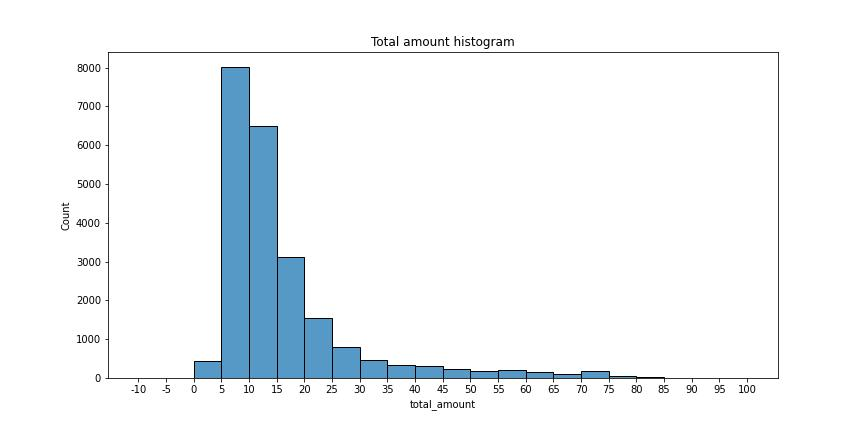
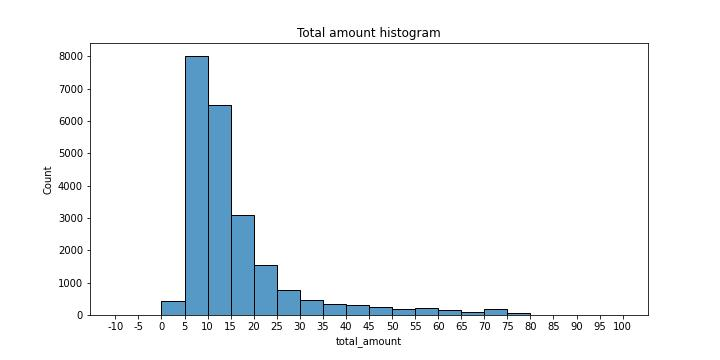
Standardized fig dimensions

diff --git a/README.md b/README.md
@@ -1,49 +1,60 @@
-![taxistand](taxi_stand.jpg)
+![taxistand](figs\taxi_stand.jpg)
 #  Yellow Taxi Trip Prediction Model
- This project goal is to build a regression model that predicts taxi cab fares before each ride based on distance, time of day, and any additional variables we find necessary.
-
+This project's goal is to build a regression model that predicts taxi cab fares before each ride based on distance, time of day, and any additional variables we find necessary.
+</br></br>
 
 # Table of Contents
 
-1. [TLC Exploration](#1-|-Exploring-the-Dataset)
-1. [TLC Statistics](#2-|-statistical-analysis)
-1. [TLC Model](#3-|-Building-the-Model)
-1. [TLC Results](#4-|-conclusions)
+1. [Exploring the Dataset](#1-|-Exploring-the-Dataset)
+1. [Statistical Analysis](#2-|-statistical-analysis)
+1. [Building the Model](#3-|-Building-the-Model)
+1. [Conclusions](#4-|-conclusions)
 1. [Dependencies](#5-|-dependencies)
 1. [Author](#6-|-author)
 1. [License](#7-|-license)
 1. [Acknowledgements](#8-|-acknowledgements)
-
+</br></br>
 
 # 1 | Exploring the Dataset
 The goal of this first notebook is to perform a cursory inspection of  the 2017 Yellow Taxi Trip data.
 
 After looking at the dataset, the two variables that are most likely to help build a predictive model for taxi ride fares are total_amount and trip_distance because those variables show a picture of a taxi cab ride.
-
+</br></br>
 
 # 2 | Statistical Analysis
 The goal of this second notebook is to characterize and clean the 2017 Yellow Taxi Trip data set and to create a visualization to share to stakeholders.
- - We will use box plots to determine outliers and where the bulk of the data points reside in terms of trip_distance, duration, and total_amount
- - We will use scatter plots to visualize the trends and patters and outliers of critical variables, such as trip_distance and total_amount
- - We will use bar charts to determine average number of trips per month, weekday, weekend, etc.
+- We will use box plots to determine outliers and where the bulk of the data points reside in terms of trip_distance and total_amount.
+![totalbox](figs\total_boxplot.jpg)
+![tripbox](figs\trip_boxplot.jpg)
+</br></br>
+- We will use histograms to visualize the trends and patters and outliers of critical variables, such as trip_distance and total_amount
+![totalhist](figs\totals_histogram.jpg)
+![triphist](figs\trip_histogram.jpg)
+</br></br>
+- We will use bar charts to determine daily and monthly revenue and number of trips.
+![revday](figs\revenue_daily.jpg)
+![revmon](figs\revenue_monthly.jpg)
+![rideday](figs\rides_daily.jpg)
+![ridemon](figs\rides_monthly.jpg)
+</br></br>
 
-Google Slides presentation link [HERE](https://docs.google.com/presentation/d/1I3PJeAL6wSCZCT8FXa4GtsFjZeRMaZ67nGlbKEv-jzA/edit?usp=sharing).
-
+Google Slides EDA Presentation link [HERE](https://docs.google.com/presentation/d/1I3PJeAL6wSCZCT8FXa4GtsFjZeRMaZ67nGlbKEv-jzA/edit?usp=sharing).
+</br></br>
 
 # 3 | Building the Model
 Under Construction. . .
-
+</br></br>
 
 ## Observations & Patterns
 - one.
 
 - two.
-
+</br></br>
 
 # 4 | Conclusions
 
 As expected, the model . . .
-
+</br></br>
 
 # 5 | Dependencies
 * python = "^3.10"
@@ -52,15 +63,15 @@ As expected, the model . . .
 * matplotlib = "^3.8.0"
 * seaborn = "^0.13.0"
 * scikit-learn = "^1.3.1"
-
+</br></br>
 
 # 6 | Author
 [Ahmed L Rashed](https://ahmedlrashed.github.io)
-
+</br></br>
 
 # 7 | License
 [![License: MIT](https://img.shields.io/badge/License-MIT-yellow.svg)](https://opensource.org/licenses/MIT)
-
+</br></br>
 
 # 8 | Acknowledgements
 * [Coursera](https://www.coursera.org/) for hosting the dataset
